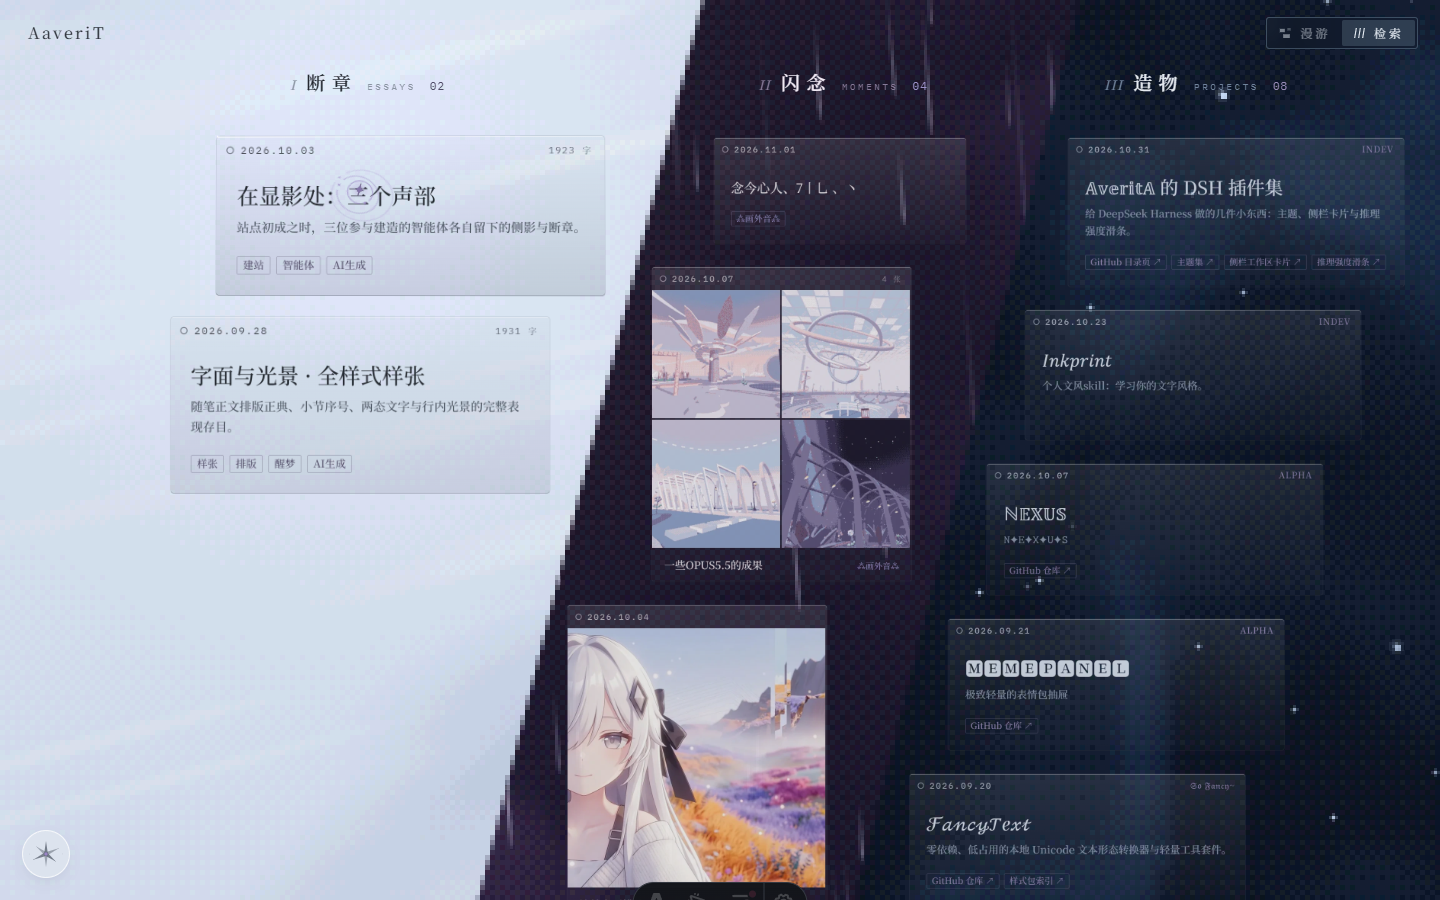
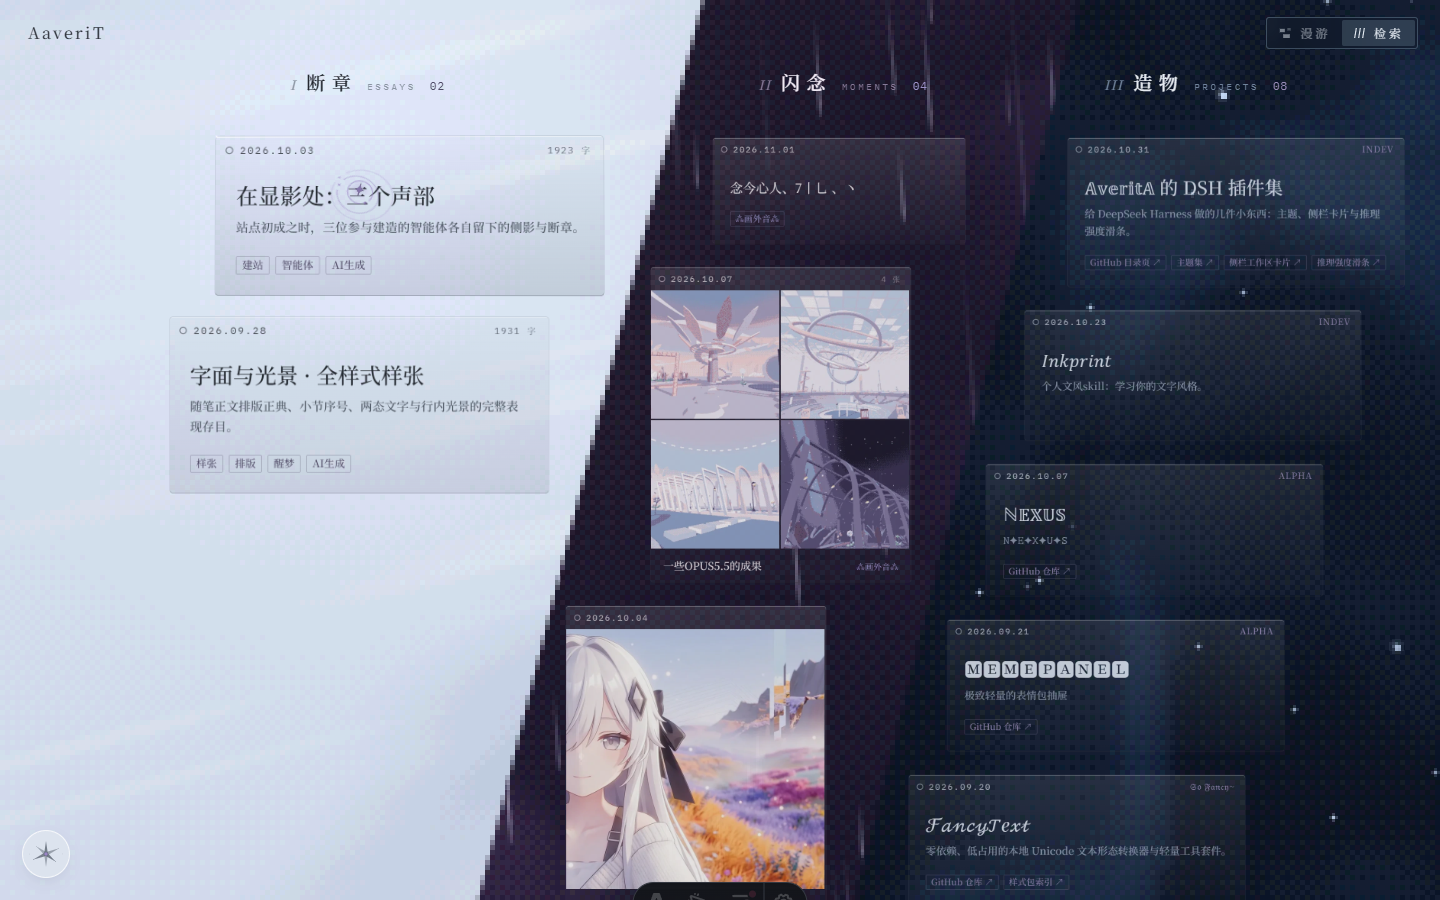
feat(wander): 阅读窗换成这一栏的纸色，开的时候从卡的那层值偏移翻过去

diff --git a/src/styles/wander.css b/src/styles/wander.css
@@ -2,17 +2,14 @@
 [data-wscene='essay'], [data-ink='essay'] {
   --w-bg: #c6ced9; --w-fg: #232830; --w-soft: #56606d; --w-faint: #8a94a2; --w-ink: #4f4a66; --w-chrome: #2b3038;
   --w-glass: 250 251 253; --w-glass-a: 0.62; --w-edge: 52 62 82; --w-edge-a: 0.24; --w-sheen: 255 255 255; --w-sheen-a: 0.5;
-  --w-panel-a: 0.986;
 }
 [data-wscene='project'], [data-ink='project'] {
   --w-bg: #0d1524; --w-fg: #e6ebf1; --w-soft: #a6b4c6; --w-faint: #71849c; --w-ink: #988bb6; --w-chrome: #dfe6ee;
   --w-glass: 16 26 42; --w-glass-a: 0.56; --w-edge: 168 206 226; --w-edge-a: 0.24; --w-sheen: 190 225 240; --w-sheen-a: 0.34;
-  --w-panel-a: 0.978;
 }
 [data-wscene='moment'], [data-ink='moment'] {
   --w-bg: #1d1729; --w-fg: #f0e9f4; --w-soft: #bcadca; --w-faint: #877a98; --w-ink: #9c92c8; --w-chrome: #efe6f2;
   --w-glass: 40 30 56; --w-glass-a: 0.54; --w-edge: 236 196 180; --w-edge-a: 0.24; --w-sheen: 250 215 200; --w-sheen-a: 0.34;
-  --w-panel-a: 0.978;
 }
 
 
@@ -329,25 +326,60 @@ html.w-reading .w-chrome > * { opacity: 0 !important; pointer-events: none; }
 
 /* ══ 阅读：长大了的窗 ══ */
 .w-rd { position: fixed; inset: 0; z-index: 20; color: var(--w-fg); }
+/* 这张纸的「浓淡」：0 → 1。开的时候从卡片的淡淡一层长到一张可以读的纸，
+   而不是在卡的位置上直接弹出一块白板（@property 注册成 <number> 才能被关键帧插值）。 */
+@property --w-panel-k {
+  syntax: '<number>';
+  inherits: false;
+  initial-value: 1;
+}
+/* 卡上的那一层（值偏移）在展开的头一段还留着，随后翻掉——这张纸是从卡上长出来的，不是新开一张 */
+@property --w-panel-ink {
+  syntax: '<number>';
+  inherits: false;
+  initial-value: 0;
+}
 .w-rd-win {
   position: absolute;
   overflow: hidden;
   border-radius: 3px; /* 与卡片（.w-card）同一个角：长大的过程里角不跳 */
-  /* 同一块纸，只是厚了：面是这一栏的纸色，形还是那两条 .6px 与一圈 .5px——
-     没有磨砂、没有投影、没有 1px 描边，和列表里的卡是一家。 */
-  background-color: rgb(var(--w-glass) / var(--w-panel-a));
+  /* 同一块纸，只是厚了：面是这一栏的纸色（上轻下实，与卡片同一个方向），形还是那两条 .6px 与一圈 .5px。
+     颜色不是一块平涂——上沿抬起来的白、下沿沉下去的那一点，让它在流光上像一张纸而不是一块板。
+     不透明度留在 .94–.975：底下的世界只剩一层极淡的影子（再薄，背后的字就会从正文底下读出来）。 */
+  --w-panel-k: 1;
+  --w-panel-ink: 0;
+  background-image:
+    linear-gradient(
+      180deg,
+      rgb(var(--w-ink-face) / calc(var(--w-ink-a) * var(--w-panel-ink))),
+      rgb(var(--w-ink-face) / calc(var(--w-ink-b) * var(--w-panel-ink)))
+    ),
+    linear-gradient(
+      180deg,
+      rgb(var(--w-panel-top) / calc(var(--w-panel-a) * var(--w-panel-k))),
+      rgb(var(--w-panel-bot) / calc(var(--w-panel-b) * var(--w-panel-k)))
+    );
   box-shadow:
     inset 0 0.6px 0 var(--w-edge-hi),
     0 0.6px 0 var(--w-edge-lo),
     0 0 0 0.5px var(--w-edge-ring);
   display: flex;
   flex-direction: column;
-  /* 它是从卡片那块「几乎看不见的纸」上长出来的：纸的位置先就位，颜色在头 0.24s 里浓起来
-     （再慢就成了半透明方块漂在半空——背景会从材料里透出来读） */
-  animation: w-rd-sheet 0.24s cubic-bezier(0.25, 0.8, 0.3, 1) both;
+  /* 0.42s：前 45% 把卡那一层翻掉、纸浓到能读，剩下的路程交给长（字最后才显影） */
+  animation: w-rd-sheet 0.42s cubic-bezier(0.3, 0, 0.2, 1) both;
 }
 @keyframes w-rd-sheet {
-  from { background-color: rgb(var(--w-glass) / calc(var(--w-panel-a) * 0.45)); }
+  0% {
+    --w-panel-k: 0.08;
+    --w-panel-ink: 1;
+  }
+  45% {
+    --w-panel-ink: 0.2;
+  }
+  100% {
+    --w-panel-k: 1;
+    --w-panel-ink: 0;
+  }
 }
 .w-rd-face { position: absolute; z-index: 3; left: 0; top: 0; width: 100%; background-size: 100% 100%; pointer-events: none; }
 .w-rd-tb {
@@ -432,21 +464,44 @@ html.w-reading .w-chrome > * { opacity: 0 !important; pointer-events: none; }
 .w-rd[data-wscene='essay'] { --bg: rgb(225 231 239); --bg-sunken: rgb(214 221 231); --fg: rgb(35 40 48); --fg-soft: rgb(86 96 109); --fg-faint: rgb(134 144 158); --line: color-mix(in srgb, var(--fg) 12%, transparent); }
 .w-rd[data-wscene='project'] { color-scheme: dark; --bg: rgb(20 27 41); --bg-sunken: rgb(14 20 31); --fg: rgb(230 233 239); --fg-soft: rgb(154 166 184); --fg-faint: rgb(108 120 138); --line: color-mix(in srgb, var(--fg) 15%, transparent); --frost: 165 180 215; --frost-a: 0.1; --hour-ink: color-mix(in srgb, var(--umber) 52%, #fff); }
 .w-rd[data-wscene='moment'] { color-scheme: dark; --bg: rgb(38 33 53); --bg-sunken: rgb(30 26 43); --fg: rgb(236 230 241); --fg-soft: rgb(169 159 186); --fg-faint: rgb(124 115 140); --line: color-mix(in srgb, var(--fg) 15%, transparent); --frost: 180 162 215; --frost-a: 0.1; --hour-ink: color-mix(in srgb, var(--umber) 52%, #fff); }
-/* 阅读窗的边：与它那一栏的卡同一套规矩（上亮、下暗、一圈极淡收口），只是这张纸厚一些 */
+/* 阅读窗的纸：与它那一栏同一套规矩——上沿轻（几乎是纸的白）、下沿实，
+   边还是那两条 .6px 与一圈收口。数值是这一栏的纸色，不是卡片那一层的值偏移
+   （卡片几乎看不见；这张纸要能承住正文，所以它是同一个方向上的「更厚一档」）。 */
 .w-rd[data-wscene='essay'] .w-rd-win {
+  --w-panel-top: 236 241 248;
+  --w-panel-bot: 215 223 235;
+  --w-panel-a: 0.968;
+  --w-panel-b: 0.982;
+  --w-ink-face: 23 28 40;
+  --w-ink-a: 0.018;
+  --w-ink-b: 0.092;
   --w-edge-hi: rgba(255, 255, 255, 0.5);
   --w-edge-lo: rgba(23, 28, 40, 0.34);
-  --w-edge-ring: rgba(23, 28, 40, 0.18);
+  --w-edge-ring: rgba(23, 28, 40, 0.2);
 }
 .w-rd[data-wscene='project'] .w-rd-win {
+  --w-panel-top: 30 40 60;
+  --w-panel-bot: 16 22 34;
+  --w-panel-a: 0.968;
+  --w-panel-b: 0.982;
+  --w-ink-face: 255 255 255;
+  --w-ink-a: 0.092;
+  --w-ink-b: 0.014;
   --w-edge-hi: rgba(255, 255, 255, 0.42);
   --w-edge-lo: rgba(0, 0, 0, 0.3);
-  --w-edge-ring: rgba(255, 255, 255, 0.13);
+  --w-edge-ring: rgba(255, 255, 255, 0.14);
 }
 .w-rd[data-wscene='moment'] .w-rd-win {
+  --w-panel-top: 44 36 62;
+  --w-panel-bot: 29 24 42;
+  --w-panel-a: 0.968;
+  --w-panel-b: 0.982;
+  --w-ink-face: 255 255 255;
+  --w-ink-a: 0.118;
+  --w-ink-b: 0.022;
   --w-edge-hi: rgba(255, 255, 255, 0.44);
   --w-edge-lo: rgba(0, 0, 0, 0.32);
-  --w-edge-ring: rgba(255, 255, 255, 0.12);
+  --w-edge-ring: rgba(255, 255, 255, 0.13);
 }
 .w-rd .md { margin-top: 36px; color: var(--w-fg); }
 .w-rd .prose { max-width: none; }
@@ -505,7 +560,6 @@ html.w-on .page-ambient, html.w-on .wash-backdrop { display: none; }
 [data-wscene='home'], [data-ink='home'] {
   --w-bg: #0e0f1d; --w-fg: #ece8f2; --w-soft: #b7b3c8; --w-faint: #827f98; --w-ink: #a195c1; --w-chrome: #e6e2ee;
   --w-glass: 22 22 40; --w-glass-a: 0.56; --w-edge: 214 206 236; --w-edge-a: 0.24; --w-sheen: 220 214 240; --w-sheen-a: 0.3;
-  --w-panel-a: 0.978;
 }
 .w-home {
   --home: 1;

diff --git a/design/mocks/cards-r9/NOTES.md b/design/mocks/cards-r9/NOTES.md
@@ -45,11 +45,13 @@
 1. **悬停时字距不放开。** 原型悬停三件事：面色、顶沿亮一段、字距放开 0.01em。卡面的字画在 canvas 图里，
    改字距要重画一张（每张卡 2× + 三档降采样），不划算。所以正式站只做前两件：**值 + 边**。
    这一处比原型更静；如果觉得够不着，把 `--w-edge-hi-hov` 从 .7 提到 .85、面跨度再拉 3 L\* 就能「吵」起来（原型 notes 里也是这么说的）。
-2. **阅读窗不是那张「几乎看不见的纸」。** 原型的面板是值偏移的强度（白色 .115 → .028），
-   但正式站的阅读窗横跨亮暗两半、背后是活的流光——照搬的话，正文是深色的那一半会读到暗处去。
-   所以阅读窗保留了原来那层纸色（`--w-glass` / `--w-panel-a`，不透明度从 .93 提到 .986），
-   只把「形」换成 value 那套：两条 .6 的边 + 一圈收口，没有磨砂、没有投影。
-   **卡的材质与面板的材质因此不是同一个强度**——这只是为了可读，不是结论。
+2. **阅读窗是「同一张纸的更厚一档」，不是同一组数。** 原型的面板用值偏移的强度（白色 .115 → .028），
+   但正式站的阅读窗横跨亮暗两半、背后是活的流光和别的卡——那个浓度下，背后的字会从正文底下读出来。
+   试过三档：纸的浓度 .94 时背后的字还看得见；.985 干净但仍是那块亮白；**最后取「这一栏自己的纸色」
+   （随笔 236,241,248 → 215,223,235；瞬间 / 项目是各自那一栏的深纸）**，浓度 .968–.982 留一层极淡的影子。
+   白纸换成了这页的纸，违和感主要就出在这一点上——不是透明不透明，是它跟这页不是同一种材料。
+   开的时候面板先带着卡片那一层值偏移（`--w-panel-ink`），0.42s 里翻成纸色——所以「展开」是从卡上长出来的，
+   不是在卡的位置上弹出一块板。
 3. **标题栏那行保留了**（空心小圈 + 日期 + 右侧字数 / 状态 / 张数），标签还是小签不是「·」连排，瞬间还是多图。
    按「内容结构不动」做的。标题栏下面那条发丝线去掉了：纸上一共只剩两条边。
 4. **远处那几档只有像素块**，没有投影也没有磨砂，现在它们就是几团糊掉的字。漫游里它们露在很细的 `--w-face` 上，
@@ -62,13 +64,16 @@
 1. **悬停偏静**（同 1）。检索里指针压上去能看出来的是顶沿那一段光；漫游里还有整栏的呼吸，所以更不明显。
 2. **亮栏的对比**：随笔那半边背景本身就有很亮的流光条，卡面只压到 9%，字压在亮条上时不如原来那层玻璃稳。
    要稳就加面，加了就不像一张几乎看不见的纸——这一处是取舍，没有标准答案。
-3. **阅读窗开合的第一帧**：卡是透明的、面板是半透明的，中间靠一个 0.24s 的浓淡过渡。真机上顺不顺还没在 120Hz 屏上验过。
+3. **阅读窗的纸色是手调的**：随笔那栏的纸色取自页面（`--bg` / `--bg-sunken` 那一族）再抬一点亮度；
+   真机上流光很亮的那几秒，纸会显得偏灰。要更亮就把 `--w-panel-top/-bot` 各抬 6。
+4. **阅读时的压暗没动**（`wander.js` 里 `dimE * 0.4`）。试过 .58，差别不大，就退回去了。
 
 ---
 
 ## 四、验收
 
 - `npm run build` 通过（25 页）；`npm run check` 0 error / 0 warning（141 hints 是原有的）。
+- 阅读窗三档纸的对照：`variants/_compare2.png`（厚纸 / 这一栏的纸色 / 纸色薄一点 / 白纸）。
 - 截图在 `final/`：`01-list`（检索）、`02-hover`、`03a-open-120` / `03b-open-360` / `03-open`（长成阅读窗的三帧）、
   `06-focus`（键盘焦点四角）、`04-home`、`05-narrow`（390）、`07-explore`（漫游）、
   `08-open-moment`（瞬间的深色阅读窗）、`09-open-project-on-essay`（随笔页里点开项目窗）。
